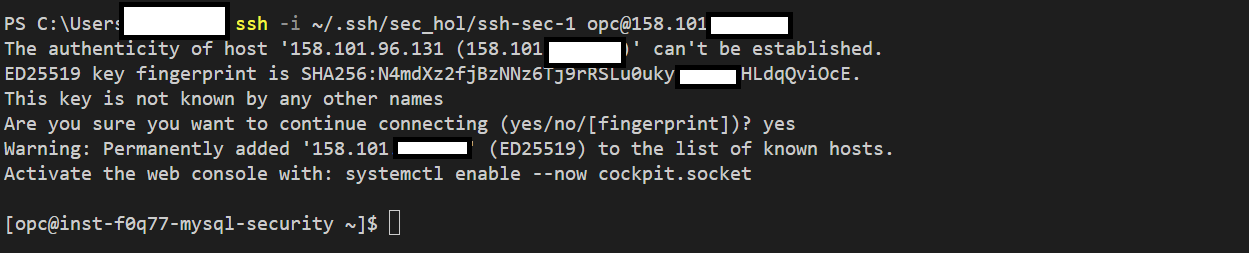
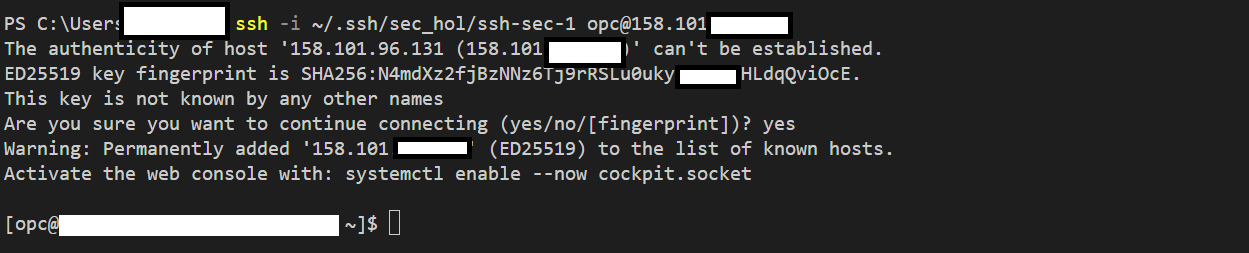
LWMS ID:11856 - Added Connect to Compute Instance Lab (#882)
Users must use their local machine to connect to the compute instance

Changed region(s): [[0.0312, 0.83, 0.281, 0.9407]]

diff --git a/mysql-enterprise-intro/install-ee/install-ee.md b/mysql-enterprise-intro/install-ee/install-ee.md
@@ -20,43 +20,58 @@ In this lab, you will be guided through the following tasks:
 This lab assumes you have:
 
 - Completed Labs 2 
-- or a working Oracle Linux machine
+- a working Oracle Linux machine
 
-## Task 1: Get MySQL Enterprise Edition Download from Oracle Technology Network (OTN)
+## Task 1: Connect to Compute Instance
 
-1. Connect to **myserver** instance using Cloud Shell (**Example:** ssh -i  ~/.ssh/id_rsa opc@132.145...)
+If you are a Linux, Mac, or Windows 10 Powershell user, skip the first step.
 
-     ```bash
-    <copy>ssh -i ~/.ssh/id_rsa opc@<your_compute_instance_ip></copy>
+1. If you are a Windows user, click the **Start** menu from your windows machine and search **Windows PowerShell**. Select **Windows PowerShell**, which will take you to the Windows PowerShell terminal.
+
+2. From a terminal window on your local system, connect to the compute instance.
+
+    ```bash
+    <copy>ssh -i  <PathtoSSHFile> opc@<ComputeIPAddress></copy>
     ```
+    Replace the following:
 
+    - PathtoSSHFile: The path where you stored the SSH file in Lab 2.
+    - ComputeIPAddress: The compute IP address that you Saved in Lab 2.
+
+    For example: 
+
+    ```bash
+    <copy>ssh -i  C:/Users/MyUser/.ssh/ssh-key-2025.key opc@129.198.47...</copy>
+    ```
     ![CONNECT](./images/ssh-login-2.png " ")
 
-2. Create a new directory named "tmp"
+## Task 2: Get MySQL Enterprise Edition Download from Oracle Technology Network (OTN)
+
+1. Create a new directory named "tmp"
 
     ```bash
     <copy>mkdir tmp</copy>
     ```
 
-3. Navigate into the "tmp" directory
+2. Navigate into the "tmp" directory
 
      ```bash
     <copy>cd tmp</copy>
     ```
 
-4. Get  OTN MySQL Enterprise Edition package
+3. Get  OTN MySQL Enterprise Edition package
 
     ```bash
     <copy>wget 'https://objectstorage.us-ashburn-1.oraclecloud.com/p/OG6aTpLGugOeCftxqcU1D4d1k360Zko_MC9cYLeZSdchpDhTwIwwZ9gX4nVBboMT/n/idazzjlcjqzj/b/mysql-ee-downloads/o/Oracle%20Technical%20Resource(OTR)/mysql-enterprise-9.3.0_el8_x86_64_bundle.tar'</copy>
     ```
 
-5. Extract the contents of the `"mysql-enterprise-9.3.0_el8_x86_64_bundle.tar"` archive file
+4. Extract the contents of the `"mysql-enterprise-9.3.0_el8_x86_64_bundle.tar"` archive file
 
     ```bash
     <copy>tar xvf mysql-enterprise-9.3.0_el8_x86_64_bundle.tar</copy>
     ```
 
-## Task 2: Install MySQL Enterprise Edition
+## Task 3: Install MySQL Enterprise Edition
 
 1. Import the MySQL repository GPG key using the RPM package manager
 
@@ -94,7 +109,7 @@ This lab assumes you have:
     <copy>sudo yum install mysql-shell-commercial -y </copy>
     ```
 
-## Task 3: Configure and Start MySQL Enterprise Edition
+## Task 4: Configure and Start MySQL Enterprise Edition
 
 1. Start the MySQL server using the systemd system and service manager
 
@@ -118,7 +133,7 @@ This lab assumes you have:
     <copy>ps -ef | grep mysqld</copy>
     ```
 
-## Task 4: Change root password and create admin account
+## Task 5: Change root password and create admin account
 
 1. Search for the phrase "temporary password" in the "/var/log/mysqld.log" file, ignoring case sensitivity
 
